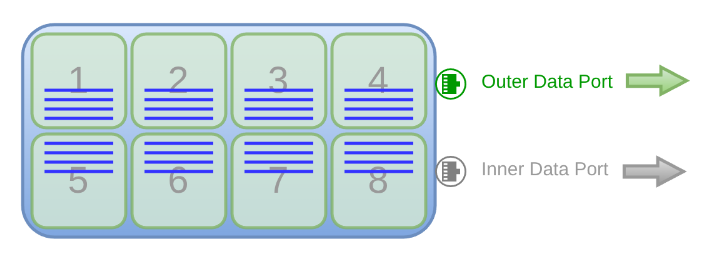
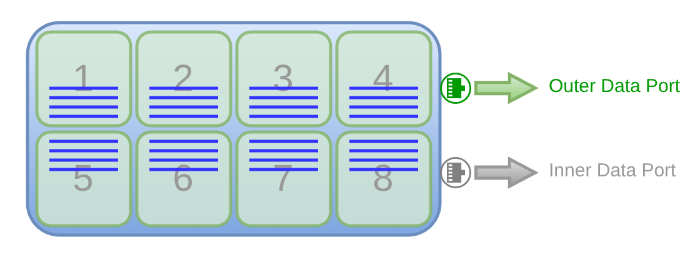
eiger doc done

diff --git a/docs/src/dataformat.rst b/docs/src/dataformat.rst
@@ -10,7 +10,7 @@ Single Port Configuration
 ^^^^^^^^^^^^^^^^^^^^^^^^^^
 
 .. image:: images/Jungfrau_module.png
-   :width: 700px
+   :width: 650px
    :align: center
    :alt: Jungfrau Module Single Port Configuration
 
@@ -44,16 +44,16 @@ Image size per UDP port or File = 262,144 bytes
 
 
 
-Special Case
-^^^^^^^^^^^^^^
+Read Partial Rows
+^^^^^^^^^^^^^^^^^^
 
 .. image:: images/Jungfrau_read_rows.png
-   :width: 500px
+   :width: 550px
    :align: center
    :alt: Jungfrau Module Read Partial Rows Configuration
 
 
-The number of image rows per port can be adjusted using the ``readnrows`` command. By default, 512 rows are read, but a smaller value centers the readout vertically (e.g., 8 rows reads 4 above and 4 below the center). Increasing the value symmetrically expands the region toward the top and bottom.
+The number of image rows per port can be adjusted using the ``readnrows`` command. By default, 512 rows are read, but a smaller value centers the readout vertically (e.g., 8 rows reads 4 above and 4 below the center). Increasing the value symmetrically expands the region toward the top and bottom. Permissible values are multiples of 8.
 
 
 Total image size = 32,768 bytes 
@@ -73,7 +73,7 @@ Default Configuration
 ^^^^^^^^^^^^^^^^^^^^^^^^^^
 
 .. image:: images/Eiger_module.png
-   :width: 550px
+   :width: 450px
    :align: center
    :alt: Eiger Module Default Configuration
 
@@ -82,12 +82,50 @@ Each Eiger module has two independent identical readout systems (other than firm
 
 Each half module has 2 parallel UDP ports for 2 chips each. The left UDP port is configured with ``udp_dstport``, while the right UDP port is configured with ``udp_dstport2``. This is vice versa for the bottom half module.
 
-The pixel width can be 4, 8, 16 (default) or 32 bits.
 
 Image size per UDP port or File = 262,144 bytes 
-   - 2 chips (2 x 4 grid)
+   - 2 chips (1 x 2 grid)
    - 256 x 256 pixels (chip size)
    - 2 bytes (default pixel width)
+
+
+Pixel width
+^^^^^^^^^^^^^
+
+The pixel width can be configured to 4, 8, 16 (default) or 32 bits using the command ``dr``. This affects image size per UDP port or file.
+
+Flip rows
+^^^^^^^^^^
+
+One can use the command ``fliprows`` along with a ``true`` to flip the rows vertically for the bottom or top half module. It is sent out to the reciever, but does not flip rows in the output file itself, but rather streams out this info via the json header and thus instructs the GUI to display them correctly.
+
+Reducing network load
+^^^^^^^^^^^^^^^^^^^^^^
+
+**Activate**: By default, the ``hostname`` command activates the half module, and therefore, all UDP ports are enabled. One can deactivate a whole half module (ie. 2 UDP ports) using command  ``activate`` with the ``false`` argument. This will disable both UDP ports of the half module and no data will be transmitted from it.
+
+
+**Datastream**: The ``datastream`` command with arguments ``left`` or ``right``, along with ``false`` can be used to disable the data streaming from one or all of the two UDP ports in a half module. This allows for more flexible configurations, such as reading only two chips or one UDP port of a half module. 
+
+Note: Only the activated ports will write data as it does not make sense to write an empty file.
+
+Read Partial Rows
+^^^^^^^^^^^^^^^^^^
+
+.. image:: images/Eiger_read_rows.png
+   :width: 500px
+   :align: center
+   :alt: Jungfrau Module Read Partial Rows Configuration
+
+
+The number of image rows per port can be adjusted using the ``readnrows`` command. By default, 256 rows are read, but a smaller value centers the readout vertically (e.g., 8 rows reads 4 above and 4 below the center). Increasing the value symmetrically expands the region toward the top and bottom. Permissible values depend on dynamic range and 10GbE enable.
+
+
+Total image size per UDP Port = 8,192 bytes 
+   - 2 chips (1 x 2 grid)
+   - **8** x 256 pixels (chip size: **8 rows**)
+   - 2 bytes (default pixel width)
+
 
 Mythen3 
 -------------
